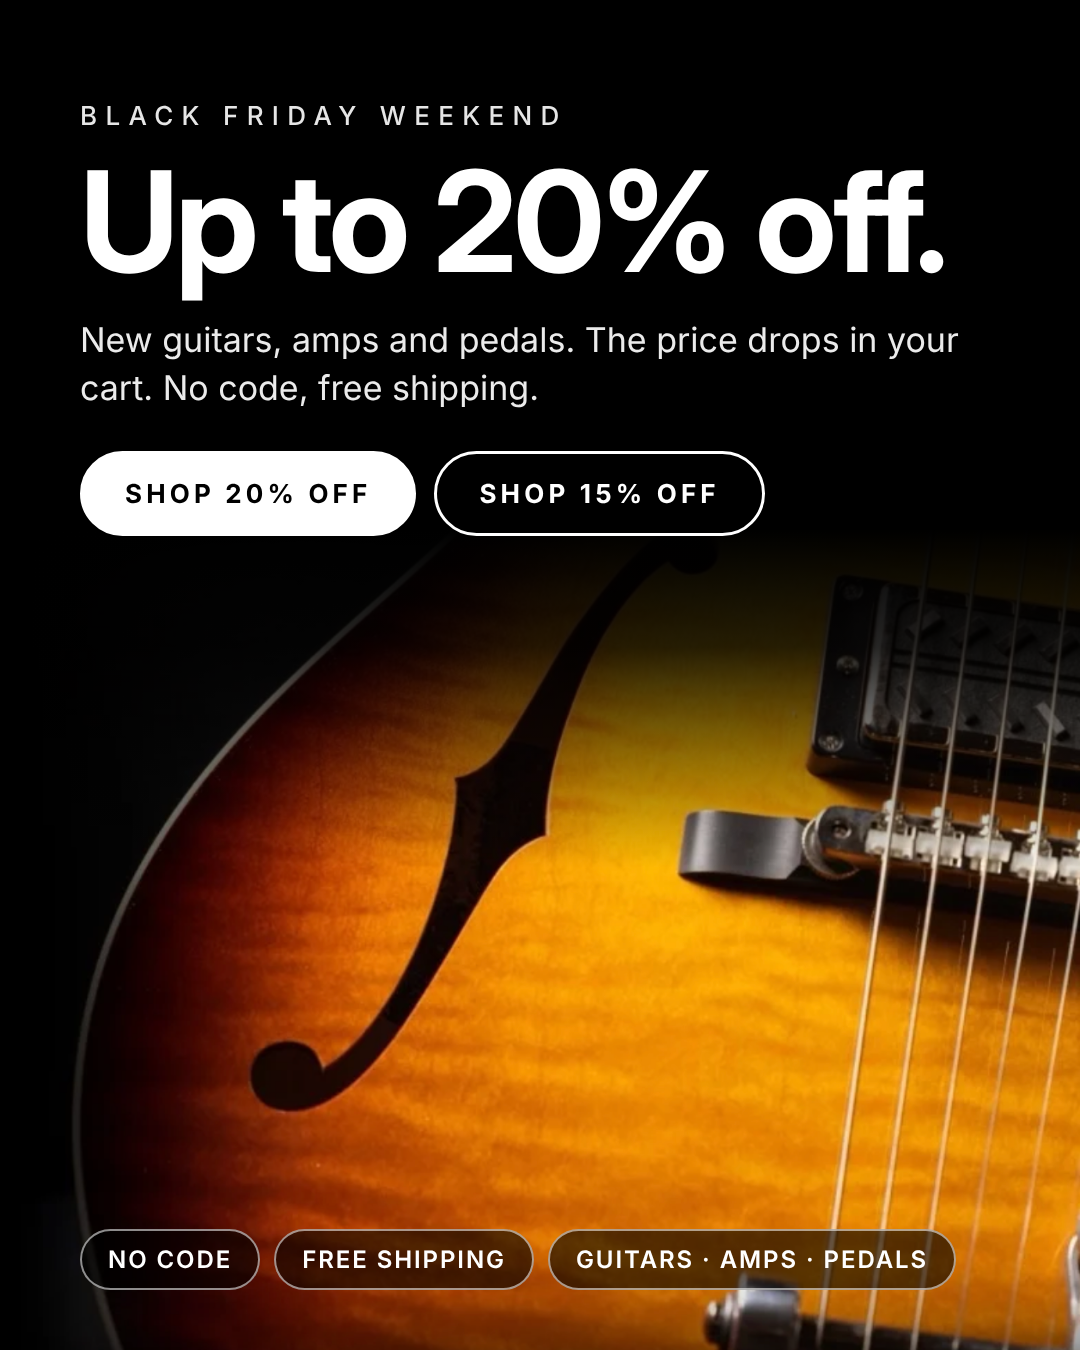
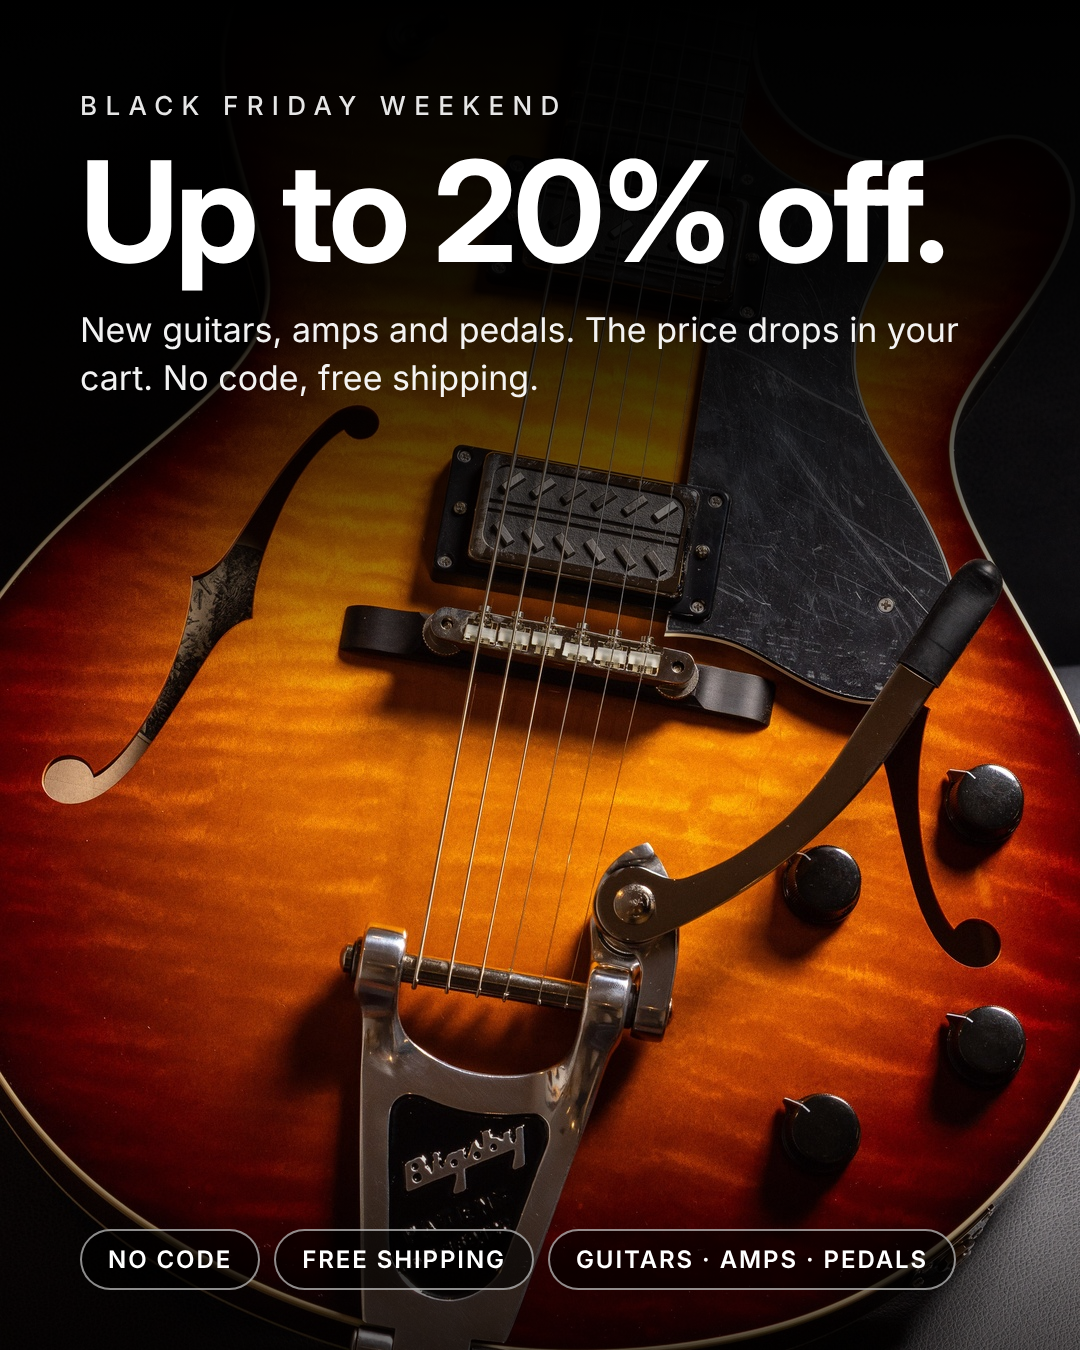
Re-render Meta ads with full-res photo crops, drop in-image buttons
Claude-Session: https://claude.ai/code/session_01WuKi1F3N1ceuBo8iT2zTFH

diff --git a/meta-ads-black-friday/src/ad2.html b/meta-ads-black-friday/src/ad2.html
@@ -1,0 +1,29 @@
+<!doctype html><html><head><meta charset="utf-8"><style>
+*{margin:0;padding:0;box-sizing:border-box}
+html,body{background:#000}
+.ad{position:relative;width:1080px;overflow:hidden;background:#000;color:#fff;font-family:Inter,sans-serif}
+.photo{position:absolute;inset:0;background-size:cover;background-position:center bottom}
+.fade{position:absolute;left:0;right:0;top:0}
+.bfade{position:absolute;left:0;right:0;bottom:0;background:linear-gradient(rgba(0,0,0,0),rgba(0,0,0,.6))}
+.copy{position:absolute;left:80px;right:80px}
+.eyebrow{font-size:26px;letter-spacing:.32em;font-weight:500;opacity:.9}
+h1{font-family:"Inter Display",Inter,sans-serif;font-weight:700;letter-spacing:-.025em;line-height:.98;margin-top:22px}
+p{font-size:34px;line-height:1.4;margin-top:26px;opacity:.95}
+.tags{position:absolute;left:80px;right:80px;display:flex;gap:14px;flex-wrap:wrap}
+.tag{background:rgba(0,0,0,.6);border:2px solid rgba(255,255,255,.55);border-radius:999px;padding:14px 26px;font-size:24px;font-weight:600;letter-spacing:.08em}
+</style></head><body><div class="ad" id="ad"></div><script>
+const q=new URLSearchParams(location.search),H=+q.get('h'),v=q.get('v');
+const ad=document.getElementById('ad');ad.style.height=H+'px';
+const story=H>=1900,sq=H<=1080,T=story?260:sq?70:90;
+const img=story?'photo-story.jpg':sq?'photo-square.jpg':'photo-feed.jpg';
+const C={A:{h:'Up to 20% off.',p:'New guitars, amps and pedals. The price drops in your cart. No code, free shipping.'},
+ B:{h:'Add to cart.<br>Watch it drop.',p:'Up to 20% off new guitars, amps and pedals. No code needed, and shipping is free.'}}[v];
+const hs=sq?(v=='B'?92:116):(v=='B'?112:140);
+const fadeH=sq?560:story?1100:700;
+ad.innerHTML=`<div class="photo" style="background-image:url(${img})"></div>
+<div class="fade" style="height:${fadeH}px;background:linear-gradient(#000 0%,rgba(0,0,0,.92) ${story?45:40}%,rgba(0,0,0,.55) 72%,rgba(0,0,0,0) 100%)"></div>
+<div class="bfade" style="height:${story?600:260}px"></div>
+<div class="copy" style="top:${T}px"><div class="eyebrow">BLACK FRIDAY WEEKEND</div>
+<h1 style="font-size:${hs}px">${C.h}</h1><p style="${sq?'font-size:30px;max-width:880px':''}">${C.p}</p></div>
+<div class="tags" style="bottom:${story?380:60}px"><span class="tag">NO CODE</span><span class="tag">FREE SHIPPING</span>${sq?'':'<span class="tag">GUITARS · AMPS · PEDALS</span>'}</div>`;
+</script></body></html>

diff --git a/meta-ads-black-friday/src/render.js b/meta-ads-black-friday/src/render.js
@@ -2,6 +2,6 @@ const {chromium}=require('playwright');const path=require('path');
 (async()=>{const b=await chromium.launch();
 for(const v of ['A','B'])for(const [n,h] of [['square-1080x1080',1080],['feed-1080x1350',1350],['story-1080x1920',1920]]){
  const p=await b.newPage({viewport:{width:1080,height:h},deviceScaleFactor:1});
- await p.goto('file://'+path.resolve('ad.html')+`?h=${h}&v=${v}`);await p.waitForTimeout(300);
+ await p.goto('file://'+path.resolve('ad2.html')+`?h=${h}&v=${v}`);await p.waitForTimeout(300);
  await p.locator('#ad').screenshot({path:`../lark-bf-${v}-${n}.png`});await p.close();}
 await b.close();})();
